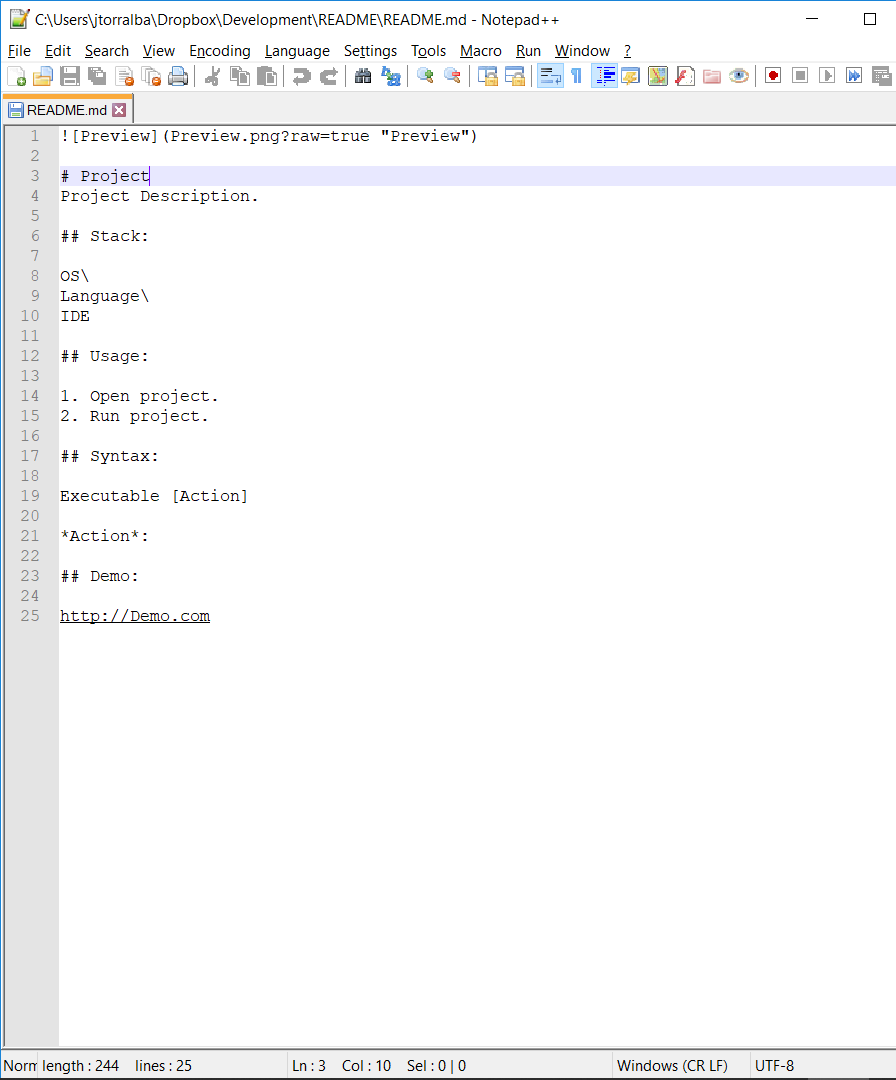
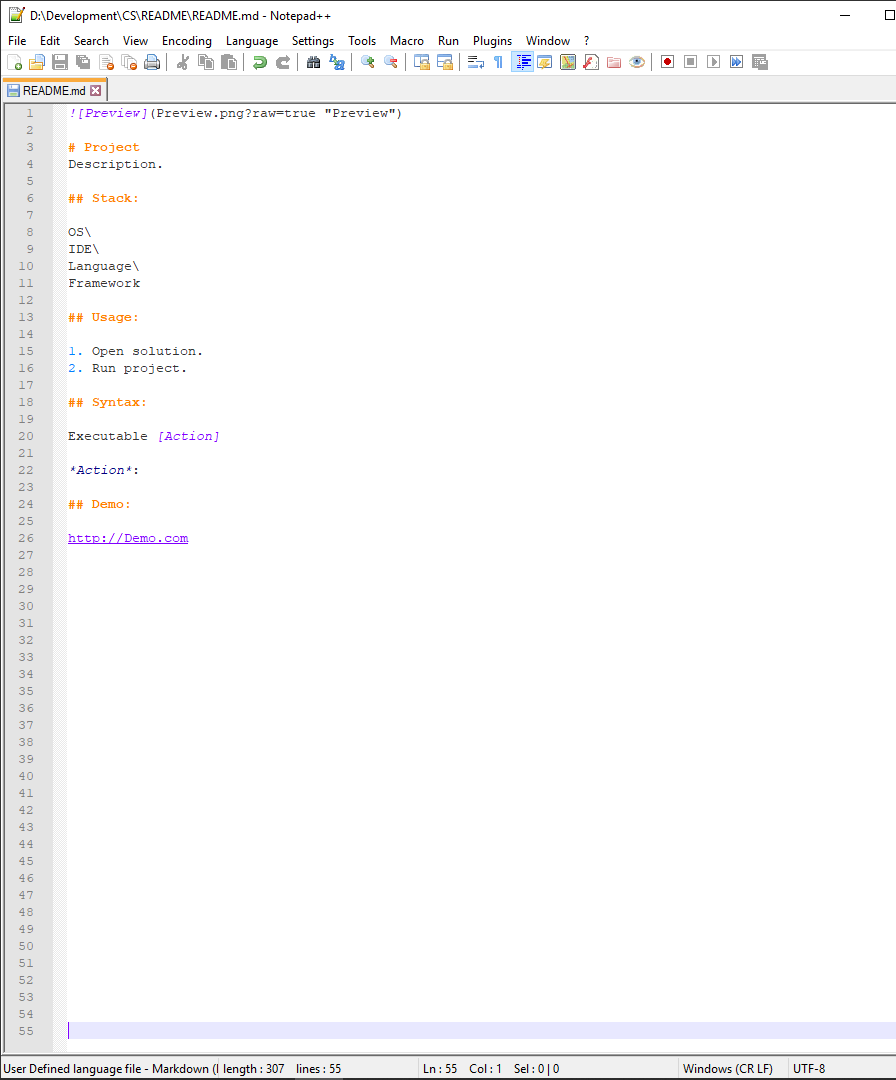
Update README.

Changed region(s): [[0.0, 0.0, 1.0, 1.0]]

diff --git a/README.md b/README.md
@@ -1,17 +1,18 @@
 ![Preview](Preview.png?raw=true "Preview")
 
 # Project
-Project Description.
+Description.
 
 ## Stack:
 
 OS\
+IDE\
 Language\
-IDE
+Framework
 
 ## Usage:
 
-1. Open project.
+1. Open solution.
 2. Run project.
 
 ## Syntax:
@@ -23,3 +24,31 @@ Executable [Action]
 ## Demo:
 
 http://Demo.com
+
+
+
+
+
+
+
+
+
+
+
+
+
+
+
+
+
+
+
+
+
+
+
+
+
+
+
+
